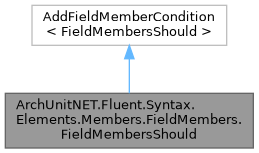
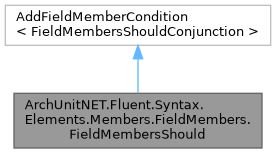
Update documentation for 0.13.3

diff --git a/stable/classArchUnitNET_1_1Fluent_1_1Syntax_1_1Elements_1_1Members_1_1FieldMembers_1_1FieldMembersShould.html b/stable/classArchUnitNET_1_1Fluent_1_1Syntax_1_1Elements_1_1Members_1_1FieldMembers_1_1FieldMembersShould.html
@@ -102,9 +102,9 @@ Inheritance diagram for ArchUnitNET.Fluent.Syntax.Elements.Members.FieldMembers.
 <div class="dyncontent">
 <div class="center"><img src="classArchUnitNET_1_1Fluent_1_1Syntax_1_1Elements_1_1Members_1_1FieldMembers_1_1FieldMembersShould__inherit__graph.png" border="0" usemap="#aArchUnitNET_8Fluent_8Syntax_8Elements_8Members_8FieldMembers_8FieldMembersShould_inherit__map" alt="Inheritance graph"/></div>
 <map name="aArchUnitNET_8Fluent_8Syntax_8Elements_8Members_8FieldMembers_8FieldMembersShould_inherit__map" id="aArchUnitNET_8Fluent_8Syntax_8Elements_8Members_8FieldMembers_8FieldMembersShould_inherit__map">
-<area shape="rect" title=" " alt="" coords="5,93,253,148"/>
-<area shape="rect" href="classArchUnitNET_1_1Fluent_1_1Syntax_1_1Elements_1_1Members_1_1FieldMembers_1_1AddFieldMemberCondition.html" title=" " alt="" coords="32,5,227,45"/>
-<area shape="poly" title=" " alt="" coords="132,59,132,93,127,93,127,59"/>
+<area shape="rect" title=" " alt="" coords="14,93,262,148"/>
+<area shape="rect" href="classArchUnitNET_1_1Fluent_1_1Syntax_1_1Elements_1_1Members_1_1FieldMembers_1_1AddFieldMemberCondition.html" title=" " alt="" coords="5,5,271,45"/>
+<area shape="poly" title=" " alt="" coords="141,59,141,93,135,93,135,59"/>
 </map>
 <center><span class="legend">[<a target="top" href="graph_legend.html">legend</a>]</span></center></div>
 <div class="dynheader">
@@ -112,9 +112,9 @@ Collaboration diagram for ArchUnitNET.Fluent.Syntax.Elements.Members.FieldMember
 <div class="dyncontent">
 <div class="center"><img src="classArchUnitNET_1_1Fluent_1_1Syntax_1_1Elements_1_1Members_1_1FieldMembers_1_1FieldMembersShould__coll__graph.png" border="0" usemap="#aArchUnitNET_8Fluent_8Syntax_8Elements_8Members_8FieldMembers_8FieldMembersShould_coll__map" alt="Collaboration graph"/></div>
 <map name="aArchUnitNET_8Fluent_8Syntax_8Elements_8Members_8FieldMembers_8FieldMembersShould_coll__map" id="aArchUnitNET_8Fluent_8Syntax_8Elements_8Members_8FieldMembers_8FieldMembersShould_coll__map">
-<area shape="rect" title=" " alt="" coords="5,93,253,148"/>
-<area shape="rect" href="classArchUnitNET_1_1Fluent_1_1Syntax_1_1Elements_1_1Members_1_1FieldMembers_1_1AddFieldMemberCondition.html" title=" " alt="" coords="32,5,227,45"/>
-<area shape="poly" title=" " alt="" coords="132,59,132,93,127,93,127,59"/>
+<area shape="rect" title=" " alt="" coords="14,93,262,148"/>
+<area shape="rect" href="classArchUnitNET_1_1Fluent_1_1Syntax_1_1Elements_1_1Members_1_1FieldMembers_1_1AddFieldMemberCondition.html" title=" " alt="" coords="5,5,271,45"/>
+<area shape="poly" title=" " alt="" coords="141,59,141,93,135,93,135,59"/>
 </map>
 <center><span class="legend">[<a target="top" href="graph_legend.html">legend</a>]</span></center></div>
 <table class="memberdecls">
@@ -126,9 +126,9 @@ Public Member Functions</h2></td></tr>
 </table><table class="memberdecls">
 <tr class="heading"><td colspan="2"><h2 class="groupheader"><a id="pro-methods" name="pro-methods"></a>
 Protected Member Functions</h2></td></tr>
-<tr class="memitem:a1788c5fafbf8f67d19980185b722cb56" id="r_a1788c5fafbf8f67d19980185b722cb56"><td class="memItemLeft" align="right" valign="top"><a id="a1788c5fafbf8f67d19980185b722cb56" name="a1788c5fafbf8f67d19980185b722cb56"></a>
-override <a class="el" href="classArchUnitNET_1_1Fluent_1_1Syntax_1_1Elements_1_1Members_1_1FieldMembers_1_1FieldMembersShould.html">FieldMembersShould</a>&#160;</td><td class="memItemRight" valign="bottom"><b>CreateNextElement</b> (<a class="el" href="interfaceArchUnitNET_1_1Fluent_1_1Conditions_1_1IOrderedCondition.html">IOrderedCondition</a>&lt; <a class="el" href="classArchUnitNET_1_1Domain_1_1FieldMember.html">FieldMember</a> &gt; condition)</td></tr>
-<tr class="separator:a1788c5fafbf8f67d19980185b722cb56"><td class="memSeparator" colspan="2">&#160;</td></tr>
+<tr class="memitem:a48d3fbd7a59dd1051116f2544669ee87" id="r_a48d3fbd7a59dd1051116f2544669ee87"><td class="memItemLeft" align="right" valign="top"><a id="a48d3fbd7a59dd1051116f2544669ee87" name="a48d3fbd7a59dd1051116f2544669ee87"></a>
+override <a class="el" href="classArchUnitNET_1_1Fluent_1_1Syntax_1_1Elements_1_1Members_1_1FieldMembers_1_1FieldMembersShouldConjunction.html">FieldMembersShouldConjunction</a>&#160;</td><td class="memItemRight" valign="bottom"><b>CreateNextElement</b> (<a class="el" href="interfaceArchUnitNET_1_1Fluent_1_1Conditions_1_1IOrderedCondition.html">IOrderedCondition</a>&lt; <a class="el" href="classArchUnitNET_1_1Domain_1_1FieldMember.html">FieldMember</a> &gt; condition)</td></tr>
+<tr class="separator:a48d3fbd7a59dd1051116f2544669ee87"><td class="memSeparator" colspan="2">&#160;</td></tr>
 </table>
 <hr/>The documentation for this class was generated from the following file:<ul>
 <li>/home/runner/work/ArchUnitNET/ArchUnitNET/current/ArchUnitNET/Fluent/Syntax/Elements/Members/FieldMembers/<b>FieldMembersShould.cs</b></li>

diff --git a/stable/hierarchy.html b/stable/hierarchy.html
@@ -109,7 +109,7 @@ This inheritance list is sorted roughly, but not completely, alphabetically:</di
 <tr id="row_4_0_" class="odd" style="display:none;"><td class="entry"><span style="width:32px;display:inline-block;">&#160;</span><span class="icona"><span class="icon">C</span></span><a class="el" href="classArchUnitNET_1_1Fluent_1_1Syntax_1_1Elements_1_1Types_1_1Classes_1_1GivenClassesThat.html" target="_self">ArchUnitNET.Fluent.Syntax.Elements.Types.Classes.GivenClassesThat</a></td><td class="desc"></td></tr>
 <tr id="row_5_" class="odd"><td class="entry"><span style="width:0px;display:inline-block;">&#160;</span><span id="arr_5_" class="arrow" onclick="toggleFolder('5_')">&#9658;</span><span class="icona"><span class="icon">C</span></span><a class="el" href="classArchUnitNET_1_1Fluent_1_1Syntax_1_1Elements_1_1Types_1_1Classes_1_1AddClassPredicate.html" target="_self">ArchUnitNET.Fluent.Syntax.Elements.Types.Classes.AddClassPredicate&lt; TNextElement, TRuleType &gt;</a></td><td class="desc"></td></tr>
 <tr id="row_5_0_" class="even" style="display:none;"><td class="entry"><span style="width:32px;display:inline-block;">&#160;</span><span class="icona"><span class="icon">C</span></span><a class="el" href="classArchUnitNET_1_1Fluent_1_1Syntax_1_1Elements_1_1Types_1_1Classes_1_1ShouldRelateToClassesThat.html" target="_self">ArchUnitNET.Fluent.Syntax.Elements.Types.Classes.ShouldRelateToClassesThat&lt; TNextElement, TRuleType &gt;</a></td><td class="desc"></td></tr>
-<tr id="row_6_" class="even"><td class="entry"><span style="width:0px;display:inline-block;">&#160;</span><span id="arr_6_" class="arrow" onclick="toggleFolder('6_')">&#9658;</span><span class="icona"><span class="icon">C</span></span><a class="el" href="classArchUnitNET_1_1Fluent_1_1Syntax_1_1Elements_1_1Members_1_1FieldMembers_1_1AddFieldMemberCondition.html" target="_self">ArchUnitNET.Fluent.Syntax.Elements.Members.FieldMembers.AddFieldMemberCondition&lt; FieldMembersShould &gt;</a></td><td class="desc"></td></tr>
+<tr id="row_6_" class="even"><td class="entry"><span style="width:0px;display:inline-block;">&#160;</span><span id="arr_6_" class="arrow" onclick="toggleFolder('6_')">&#9658;</span><span class="icona"><span class="icon">C</span></span><a class="el" href="classArchUnitNET_1_1Fluent_1_1Syntax_1_1Elements_1_1Members_1_1FieldMembers_1_1AddFieldMemberCondition.html" target="_self">ArchUnitNET.Fluent.Syntax.Elements.Members.FieldMembers.AddFieldMemberCondition&lt; FieldMembersShouldConjunction &gt;</a></td><td class="desc"></td></tr>
 <tr id="row_6_0_" class="odd" style="display:none;"><td class="entry"><span style="width:32px;display:inline-block;">&#160;</span><span class="icona"><span class="icon">C</span></span><a class="el" href="classArchUnitNET_1_1Fluent_1_1Syntax_1_1Elements_1_1Members_1_1FieldMembers_1_1FieldMembersShould.html" target="_self">ArchUnitNET.Fluent.Syntax.Elements.Members.FieldMembers.FieldMembersShould</a></td><td class="desc"></td></tr>
 <tr id="row_7_" class="odd"><td class="entry"><span style="width:0px;display:inline-block;">&#160;</span><span id="arr_7_" class="arrow" onclick="toggleFolder('7_')">&#9658;</span><span class="icona"><span class="icon">C</span></span><a class="el" href="classArchUnitNET_1_1Fluent_1_1Syntax_1_1Elements_1_1Members_1_1FieldMembers_1_1AddFieldMemberPredicate.html" target="_self">ArchUnitNET.Fluent.Syntax.Elements.Members.FieldMembers.AddFieldMemberPredicate&lt; GivenFieldMembersConjunction, FieldMember &gt;</a></td><td class="desc"></td></tr>
 <tr id="row_7_0_" class="even" style="display:none;"><td class="entry"><span style="width:32px;display:inline-block;">&#160;</span><span class="icona"><span class="icon">C</span></span><a class="el" href="classArchUnitNET_1_1Fluent_1_1Syntax_1_1Elements_1_1Members_1_1FieldMembers_1_1GivenFieldMembersThat.html" target="_self">ArchUnitNET.Fluent.Syntax.Elements.Members.FieldMembers.GivenFieldMembersThat</a></td><td class="desc"></td></tr>

diff --git a/stable/search/all_0.js b/stable/search/all_0.js
@@ -12,7 +12,7 @@ var searchData=
   ['addclasspredicate_3c_20givenclassesconjunction_2c_20class_20_3e_9',['AddClassPredicate&lt; GivenClassesConjunction, Class &gt;',['../classArchUnitNET_1_1Fluent_1_1Syntax_1_1Elements_1_1Types_1_1Classes_1_1AddClassPredicate.html',1,'ArchUnitNET::Fluent::Syntax::Elements::Types::Classes']]],
   ['addclasspredicate_3c_20tnextelement_2c_20truletype_20_3e_10',['AddClassPredicate&lt; TNextElement, TRuleType &gt;',['../classArchUnitNET_1_1Fluent_1_1Syntax_1_1Elements_1_1Types_1_1Classes_1_1AddClassPredicate.html',1,'ArchUnitNET::Fluent::Syntax::Elements::Types::Classes']]],
   ['addfieldmembercondition_11',['AddFieldMemberCondition',['../classArchUnitNET_1_1Fluent_1_1Syntax_1_1Elements_1_1Members_1_1FieldMembers_1_1AddFieldMemberCondition.html',1,'ArchUnitNET::Fluent::Syntax::Elements::Members::FieldMembers']]],
-  ['addfieldmembercondition_3c_20fieldmembersshould_20_3e_12',['AddFieldMemberCondition&lt; FieldMembersShould &gt;',['../classArchUnitNET_1_1Fluent_1_1Syntax_1_1Elements_1_1Members_1_1FieldMembers_1_1AddFieldMemberCondition.html',1,'ArchUnitNET::Fluent::Syntax::Elements::Members::FieldMembers']]],
+  ['addfieldmembercondition_3c_20fieldmembersshouldconjunction_20_3e_12',['AddFieldMemberCondition&lt; FieldMembersShouldConjunction &gt;',['../classArchUnitNET_1_1Fluent_1_1Syntax_1_1Elements_1_1Members_1_1FieldMembers_1_1AddFieldMemberCondition.html',1,'ArchUnitNET::Fluent::Syntax::Elements::Members::FieldMembers']]],
   ['addfieldmemberpredicate_13',['AddFieldMemberPredicate',['../classArchUnitNET_1_1Fluent_1_1Syntax_1_1Elements_1_1Members_1_1FieldMembers_1_1AddFieldMemberPredicate.html',1,'ArchUnitNET::Fluent::Syntax::Elements::Members::FieldMembers']]],
   ['addfieldmemberpredicate_3c_20givenfieldmembersconjunction_2c_20fieldmember_20_3e_14',['AddFieldMemberPredicate&lt; GivenFieldMembersConjunction, FieldMember &gt;',['../classArchUnitNET_1_1Fluent_1_1Syntax_1_1Elements_1_1Members_1_1FieldMembers_1_1AddFieldMemberPredicate.html',1,'ArchUnitNET::Fluent::Syntax::Elements::Members::FieldMembers']]],
   ['addfieldmemberpredicate_3c_20truletypeshouldconjunction_2c_20truletype_20_3e_15',['AddFieldMemberPredicate&lt; TRuleTypeShouldConjunction, TRuleType &gt;',['../classArchUnitNET_1_1Fluent_1_1Syntax_1_1Elements_1_1Members_1_1FieldMembers_1_1AddFieldMemberPredicate.html',1,'ArchUnitNET::Fluent::Syntax::Elements::Members::FieldMembers']]],

diff --git a/stable/search/classes_0.js b/stable/search/classes_0.js
@@ -12,7 +12,7 @@ var searchData=
   ['addclasspredicate_3c_20givenclassesconjunction_2c_20class_20_3e_9',['AddClassPredicate&lt; GivenClassesConjunction, Class &gt;',['../classArchUnitNET_1_1Fluent_1_1Syntax_1_1Elements_1_1Types_1_1Classes_1_1AddClassPredicate.html',1,'ArchUnitNET::Fluent::Syntax::Elements::Types::Classes']]],
   ['addclasspredicate_3c_20tnextelement_2c_20truletype_20_3e_10',['AddClassPredicate&lt; TNextElement, TRuleType &gt;',['../classArchUnitNET_1_1Fluent_1_1Syntax_1_1Elements_1_1Types_1_1Classes_1_1AddClassPredicate.html',1,'ArchUnitNET::Fluent::Syntax::Elements::Types::Classes']]],
   ['addfieldmembercondition_11',['AddFieldMemberCondition',['../classArchUnitNET_1_1Fluent_1_1Syntax_1_1Elements_1_1Members_1_1FieldMembers_1_1AddFieldMemberCondition.html',1,'ArchUnitNET::Fluent::Syntax::Elements::Members::FieldMembers']]],
-  ['addfieldmembercondition_3c_20fieldmembersshould_20_3e_12',['AddFieldMemberCondition&lt; FieldMembersShould &gt;',['../classArchUnitNET_1_1Fluent_1_1Syntax_1_1Elements_1_1Members_1_1FieldMembers_1_1AddFieldMemberCondition.html',1,'ArchUnitNET::Fluent::Syntax::Elements::Members::FieldMembers']]],
+  ['addfieldmembercondition_3c_20fieldmembersshouldconjunction_20_3e_12',['AddFieldMemberCondition&lt; FieldMembersShouldConjunction &gt;',['../classArchUnitNET_1_1Fluent_1_1Syntax_1_1Elements_1_1Members_1_1FieldMembers_1_1AddFieldMemberCondition.html',1,'ArchUnitNET::Fluent::Syntax::Elements::Members::FieldMembers']]],
   ['addfieldmemberpredicate_13',['AddFieldMemberPredicate',['../classArchUnitNET_1_1Fluent_1_1Syntax_1_1Elements_1_1Members_1_1FieldMembers_1_1AddFieldMemberPredicate.html',1,'ArchUnitNET::Fluent::Syntax::Elements::Members::FieldMembers']]],
   ['addfieldmemberpredicate_3c_20givenfieldmembersconjunction_2c_20fieldmember_20_3e_14',['AddFieldMemberPredicate&lt; GivenFieldMembersConjunction, FieldMember &gt;',['../classArchUnitNET_1_1Fluent_1_1Syntax_1_1Elements_1_1Members_1_1FieldMembers_1_1AddFieldMemberPredicate.html',1,'ArchUnitNET::Fluent::Syntax::Elements::Members::FieldMembers']]],
   ['addfieldmemberpredicate_3c_20truletypeshouldconjunction_2c_20truletype_20_3e_15',['AddFieldMemberPredicate&lt; TRuleTypeShouldConjunction, TRuleType &gt;',['../classArchUnitNET_1_1Fluent_1_1Syntax_1_1Elements_1_1Members_1_1FieldMembers_1_1AddFieldMemberPredicate.html',1,'ArchUnitNET::Fluent::Syntax::Elements::Members::FieldMembers']]],

diff --git a/stable/inherits.html b/stable/inherits.html
@@ -736,8 +736,8 @@ $(document).ready(function(){initNavTree('hierarchy.html',''); initResizable(); 
 <area shape="poly" title=" " alt="" coords="311,37,345,37,345,43,311,43"/>
 </map>
 </td></tr>
-<tr><td><img src="inherit_graph_63.png" border="0" usemap="#aArchUnitNET_8Fluent_8Syntax_8Elements_8Members_8FieldMembers_8AddFieldMemberCondition_3_01FieldMembersShould_01_4" alt=""/>
-<map name="aArchUnitNET_8Fluent_8Syntax_8Elements_8Members_8FieldMembers_8AddFieldMemberCondition_3_01FieldMembersShould_01_4" id="aArchUnitNET_8Fluent_8Syntax_8Elements_8Members_8FieldMembers_8AddFieldMemberCondition_3_01FieldMembersShould_01_4">
+<tr><td><img src="inherit_graph_63.png" border="0" usemap="#aArchUnitNET_8Fluent_8Syntax_8Elements_8Members_8FieldMembers_8AddFieldMemberCondition_3_01FieldMembersShouldConjunction_01_4" alt=""/>
+<map name="aArchUnitNET_8Fluent_8Syntax_8Elements_8Members_8FieldMembers_8AddFieldMemberCondition_3_01FieldMembersShouldConjunction_01_4" id="aArchUnitNET_8Fluent_8Syntax_8Elements_8Members_8FieldMembers_8AddFieldMemberCondition_3_01FieldMembersShouldConjunction_01_4">
 <area shape="rect" href="classArchUnitNET_1_1Fluent_1_1Syntax_1_1Elements_1_1Members_1_1FieldMembers_1_1AddFieldMemberCondition.html" title=" " alt="" coords="5,5,307,75"/>
 <area shape="rect" href="classArchUnitNET_1_1Fluent_1_1Syntax_1_1Elements_1_1Members_1_1FieldMembers_1_1FieldMembersShould.html" title=" " alt="" coords="355,13,603,67"/>
 <area shape="poly" title=" " alt="" coords="320,37,355,37,355,43,320,43"/>

diff --git a/stable/hierarchy.js b/stable/hierarchy.js
@@ -18,7 +18,7 @@ var hierarchy =
     [ "ArchUnitNET.Fluent.Syntax.Elements.Types.Classes.AddClassPredicate< TNextElement, TRuleType >", "classArchUnitNET_1_1Fluent_1_1Syntax_1_1Elements_1_1Types_1_1Classes_1_1AddClassPredicate.html", [
       [ "ArchUnitNET.Fluent.Syntax.Elements.Types.Classes.ShouldRelateToClassesThat< TNextElement, TRuleType >", "classArchUnitNET_1_1Fluent_1_1Syntax_1_1Elements_1_1Types_1_1Classes_1_1ShouldRelateToClassesThat.html", null ]
     ] ],
-    [ "ArchUnitNET.Fluent.Syntax.Elements.Members.FieldMembers.AddFieldMemberCondition< FieldMembersShould >", "classArchUnitNET_1_1Fluent_1_1Syntax_1_1Elements_1_1Members_1_1FieldMembers_1_1AddFieldMemberCondition.html", [
+    [ "ArchUnitNET.Fluent.Syntax.Elements.Members.FieldMembers.AddFieldMemberCondition< FieldMembersShouldConjunction >", "classArchUnitNET_1_1Fluent_1_1Syntax_1_1Elements_1_1Members_1_1FieldMembers_1_1AddFieldMemberCondition.html", [
       [ "ArchUnitNET.Fluent.Syntax.Elements.Members.FieldMembers.FieldMembersShould", "classArchUnitNET_1_1Fluent_1_1Syntax_1_1Elements_1_1Members_1_1FieldMembers_1_1FieldMembersShould.html", null ]
     ] ],
     [ "ArchUnitNET.Fluent.Syntax.Elements.Members.FieldMembers.AddFieldMemberPredicate< GivenFieldMembersConjunction, FieldMember >", "classArchUnitNET_1_1Fluent_1_1Syntax_1_1Elements_1_1Members_1_1FieldMembers_1_1AddFieldMemberPredicate.html", [
